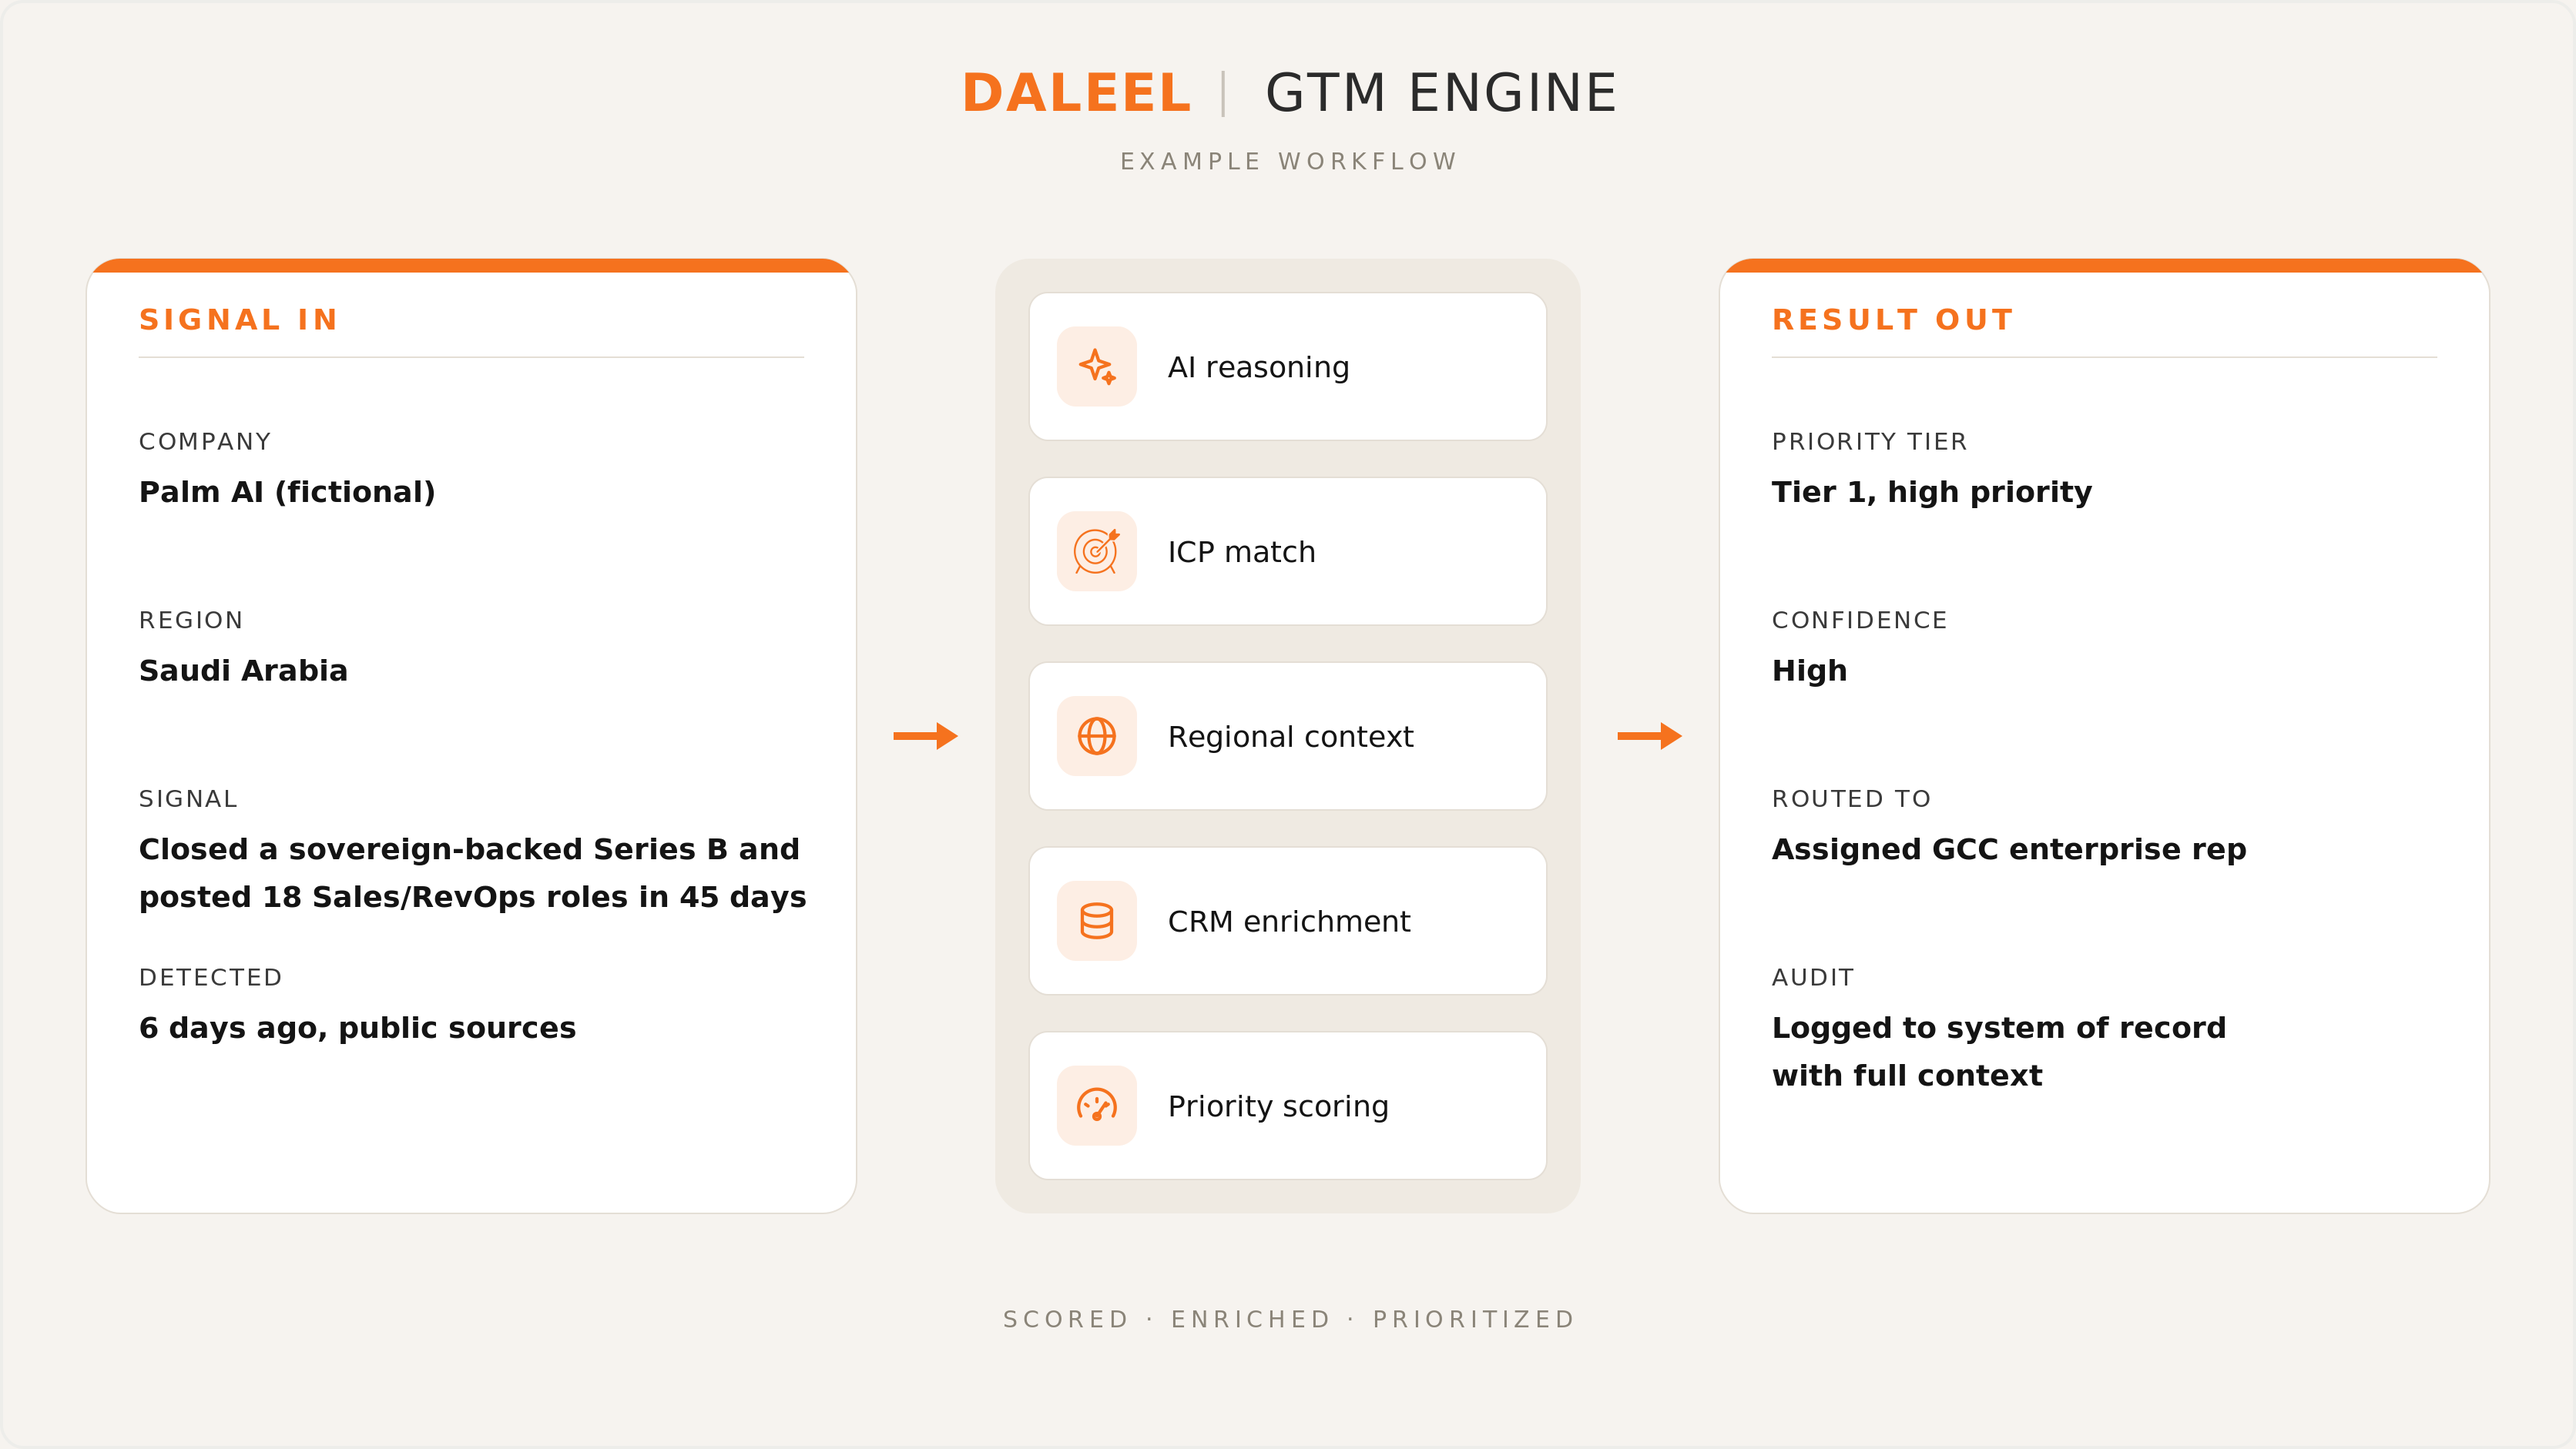
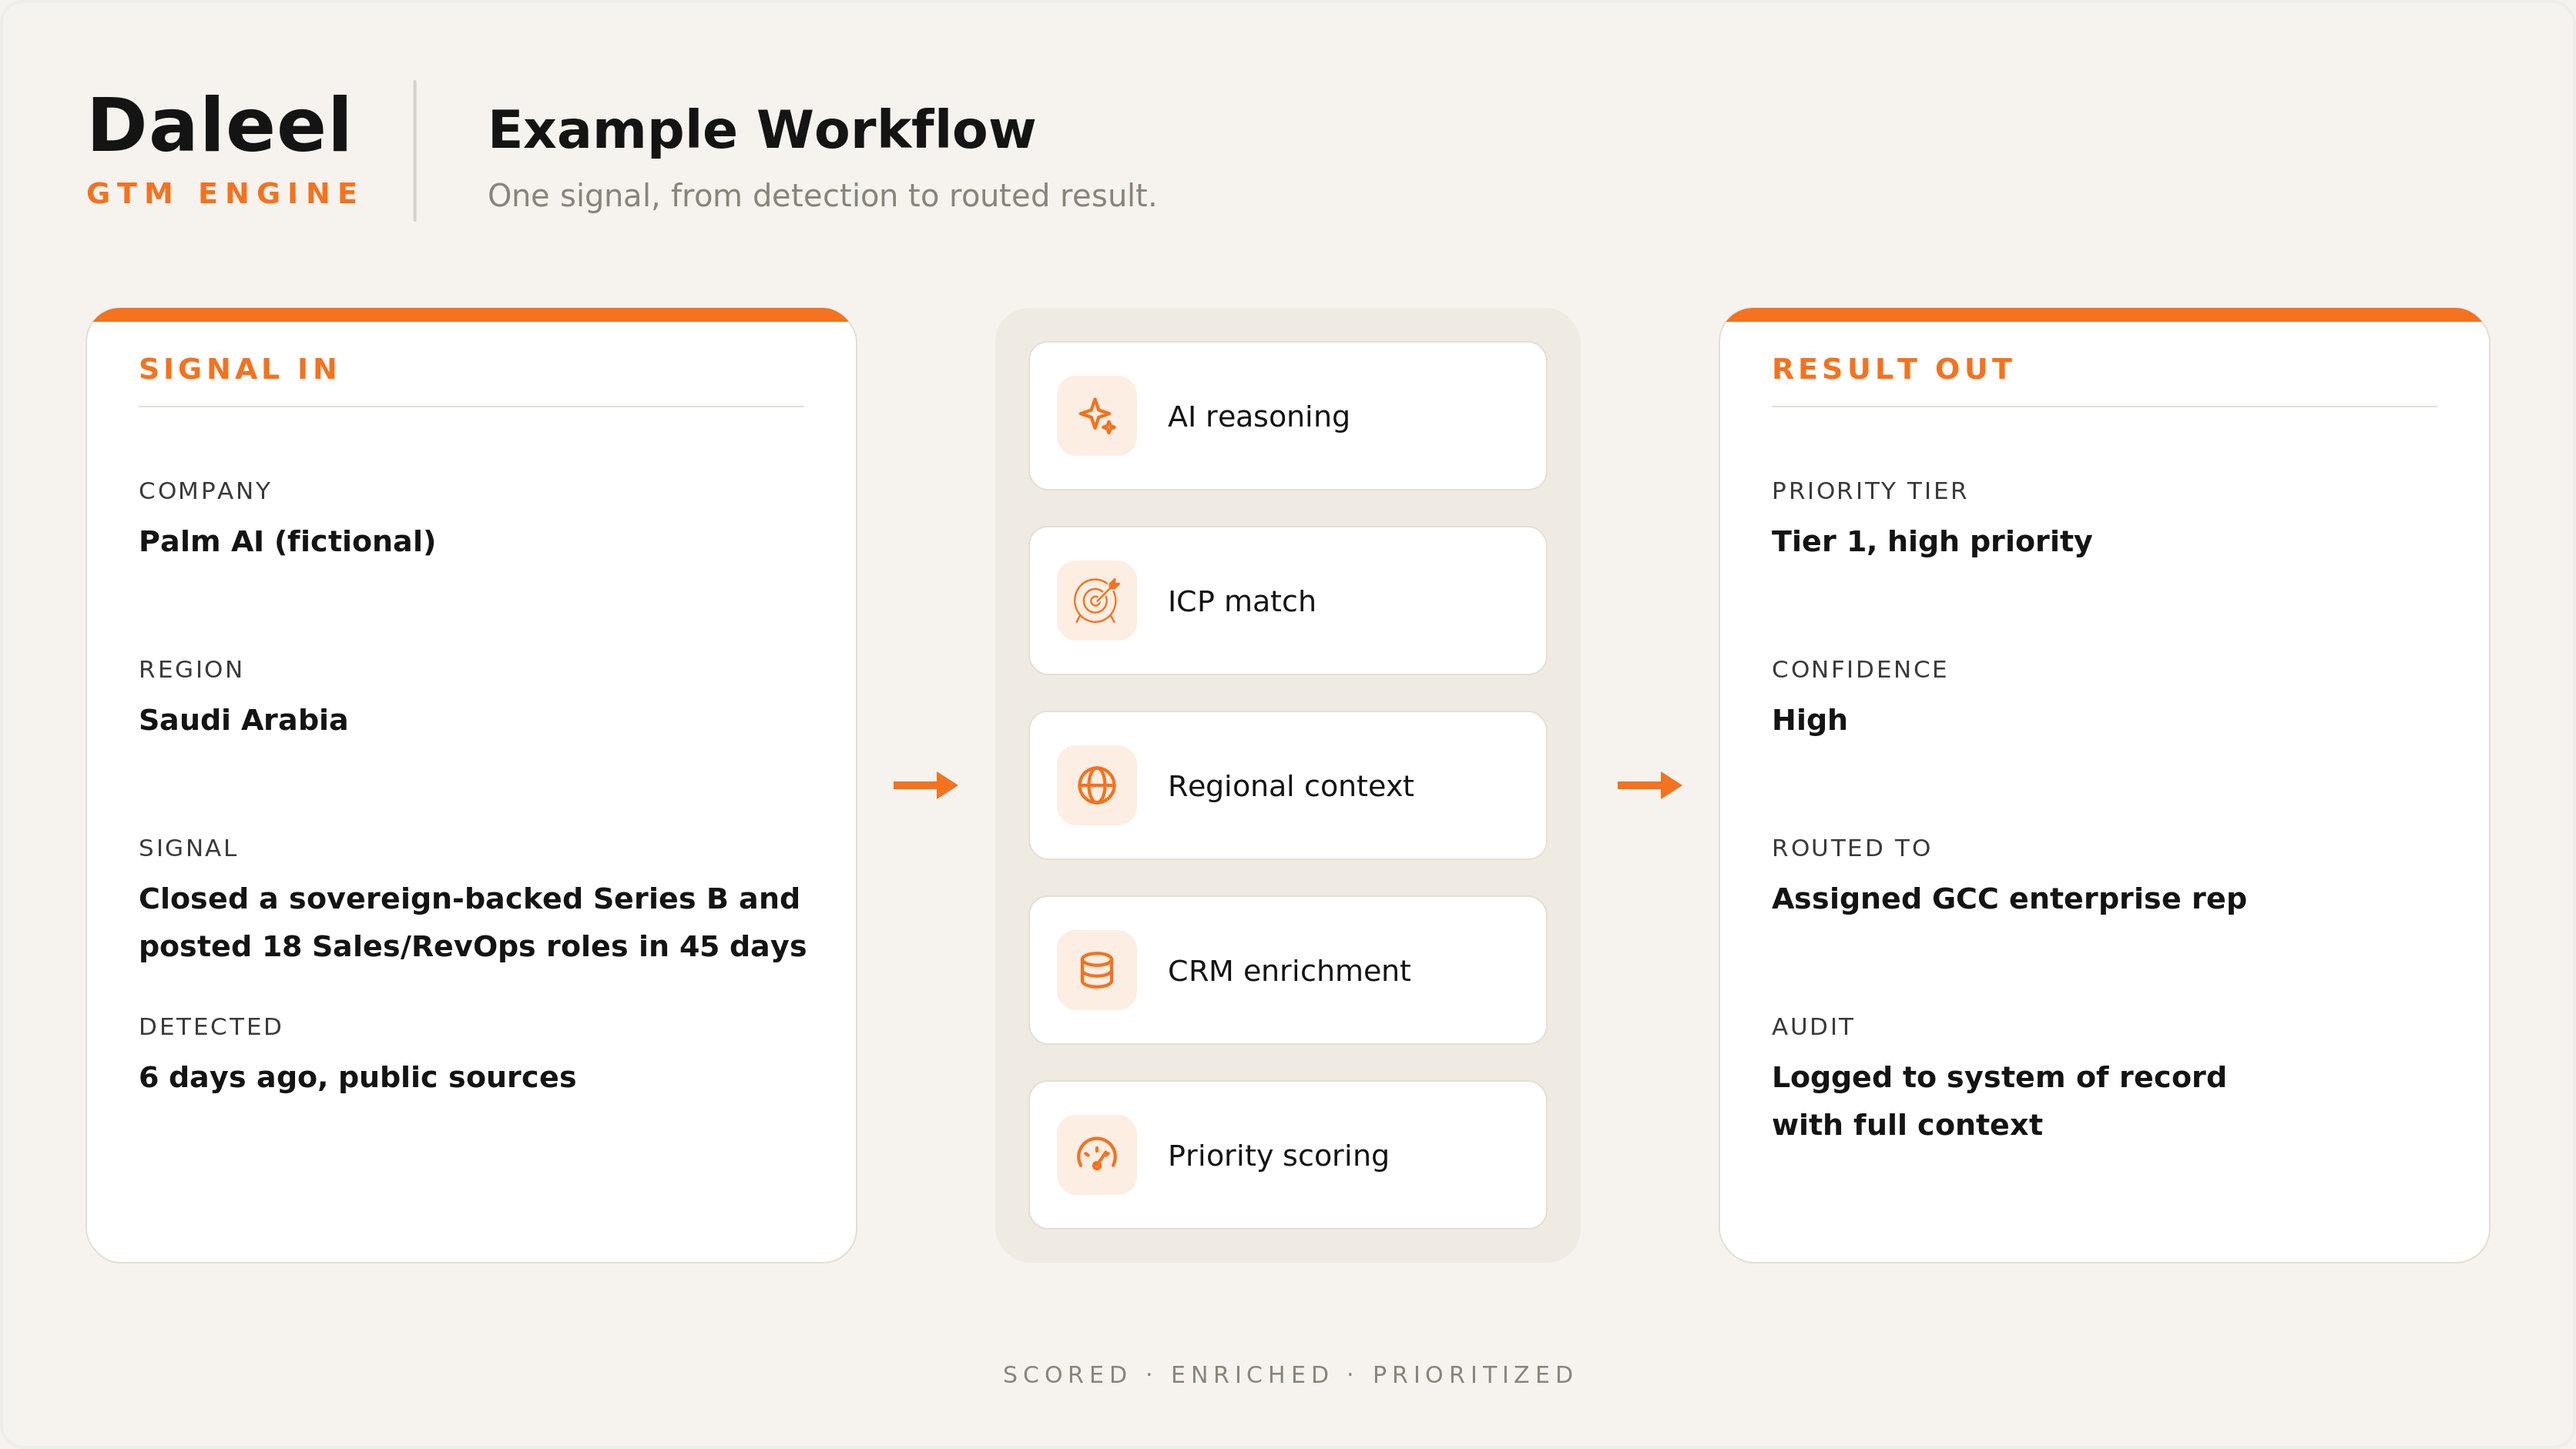
Align workflow diagram branding and add changelog entry

diff --git a/CHANGELOG.md b/CHANGELOG.md
@@ -3,6 +3,19 @@
 All notable changes to this public repository are recorded here, loosely
 following [Keep a Changelog](https://keepachangelog.com/).
 
+## [0.1.1] - 2026-07-26
+
+### Changed
+- `images/pipeline-flow.png`: refreshed to a five-stage pipeline view —
+  Signal Sources, Enrichment & AI Reasoning, ICP Match & Scoring,
+  CRM Enrichment, Delivery & Action
+- `images/example-workflow.png`: refreshed to match, with the enrichment
+  and scoring stage shown between input and result
+- Both diagrams moved onto a shared visual system
+- `README.md`: "Architecture Overview" section and image alt text updated
+  to the five-stage view
+- `images/README.md`: descriptions updated to match
+
 ## [0.1.0] - 2026-07-26
 
 ### Added
